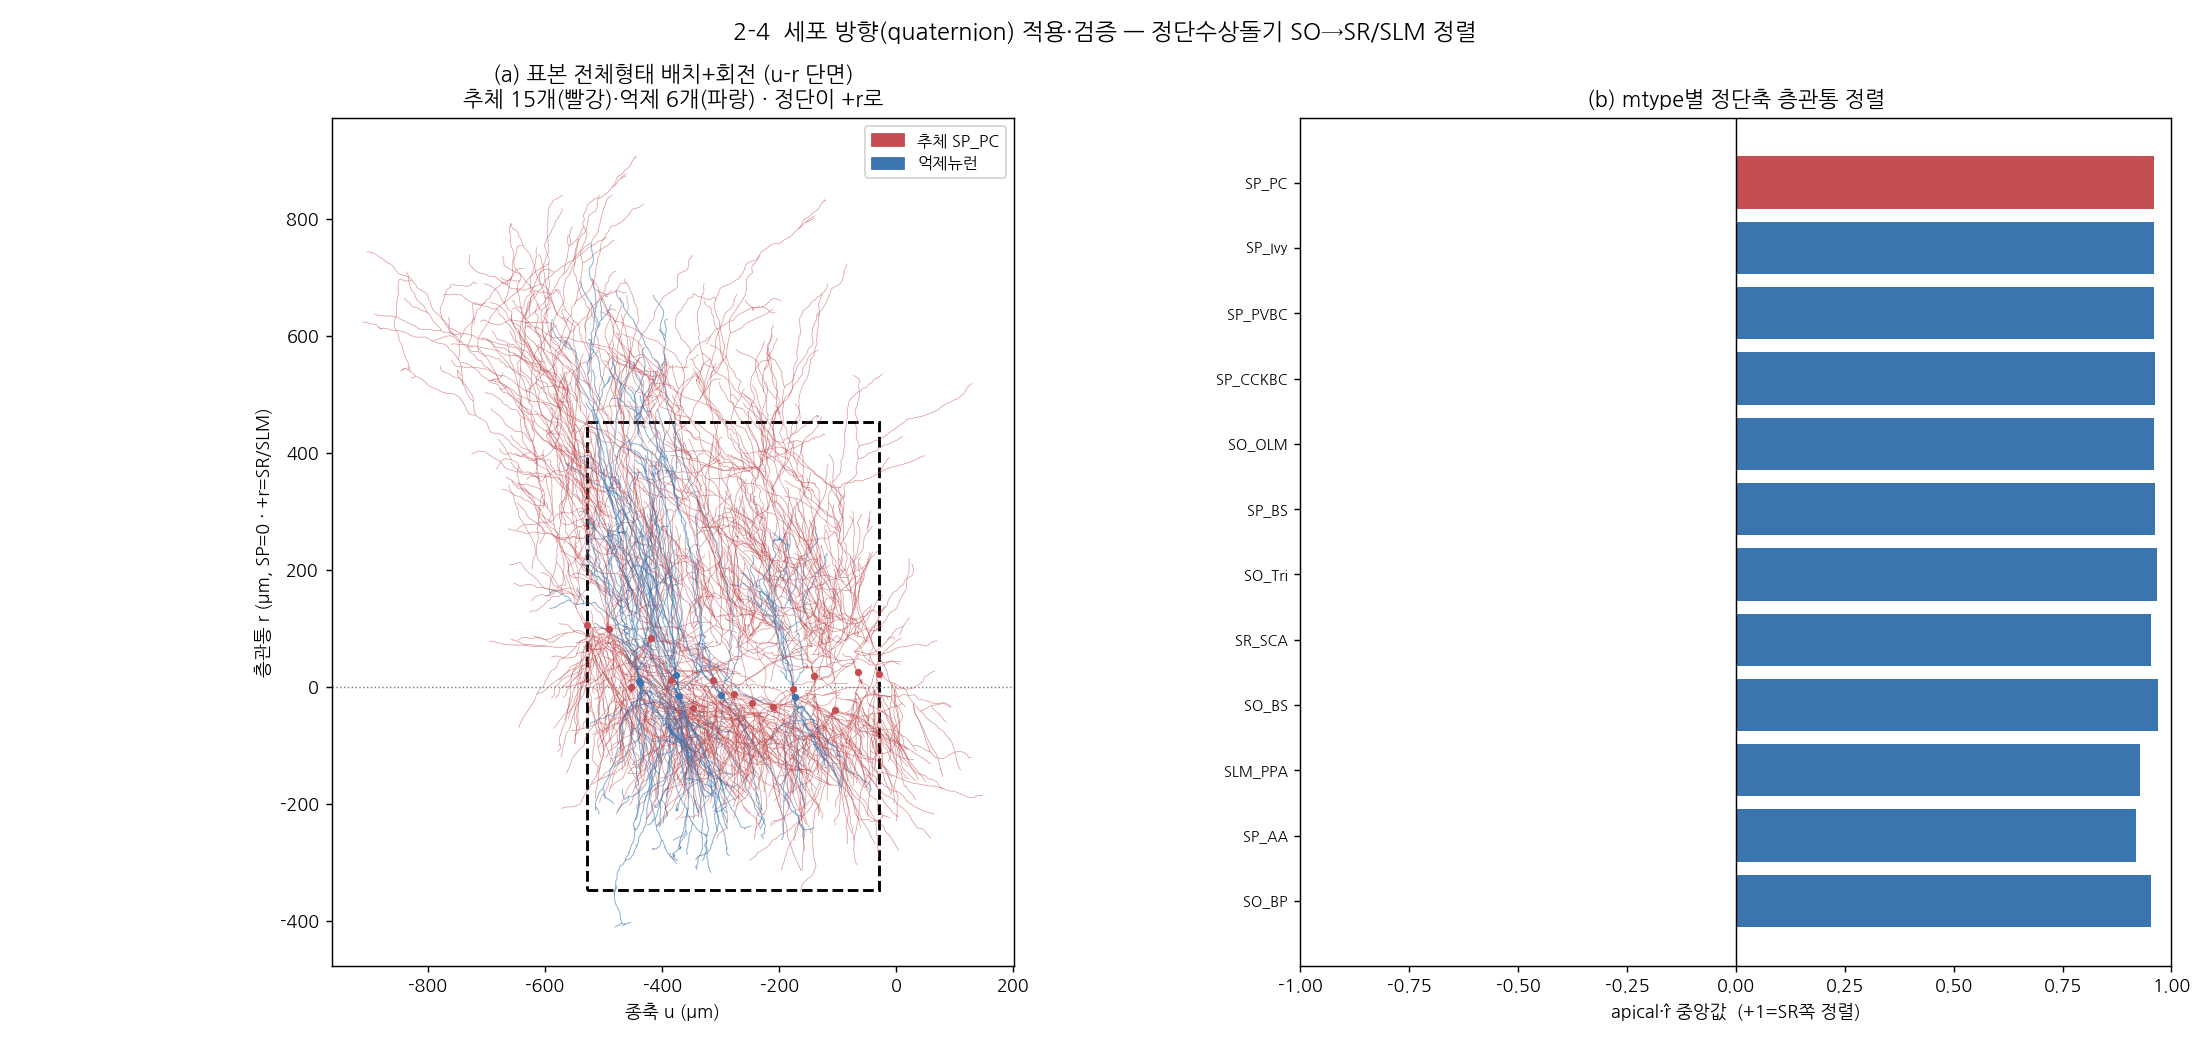
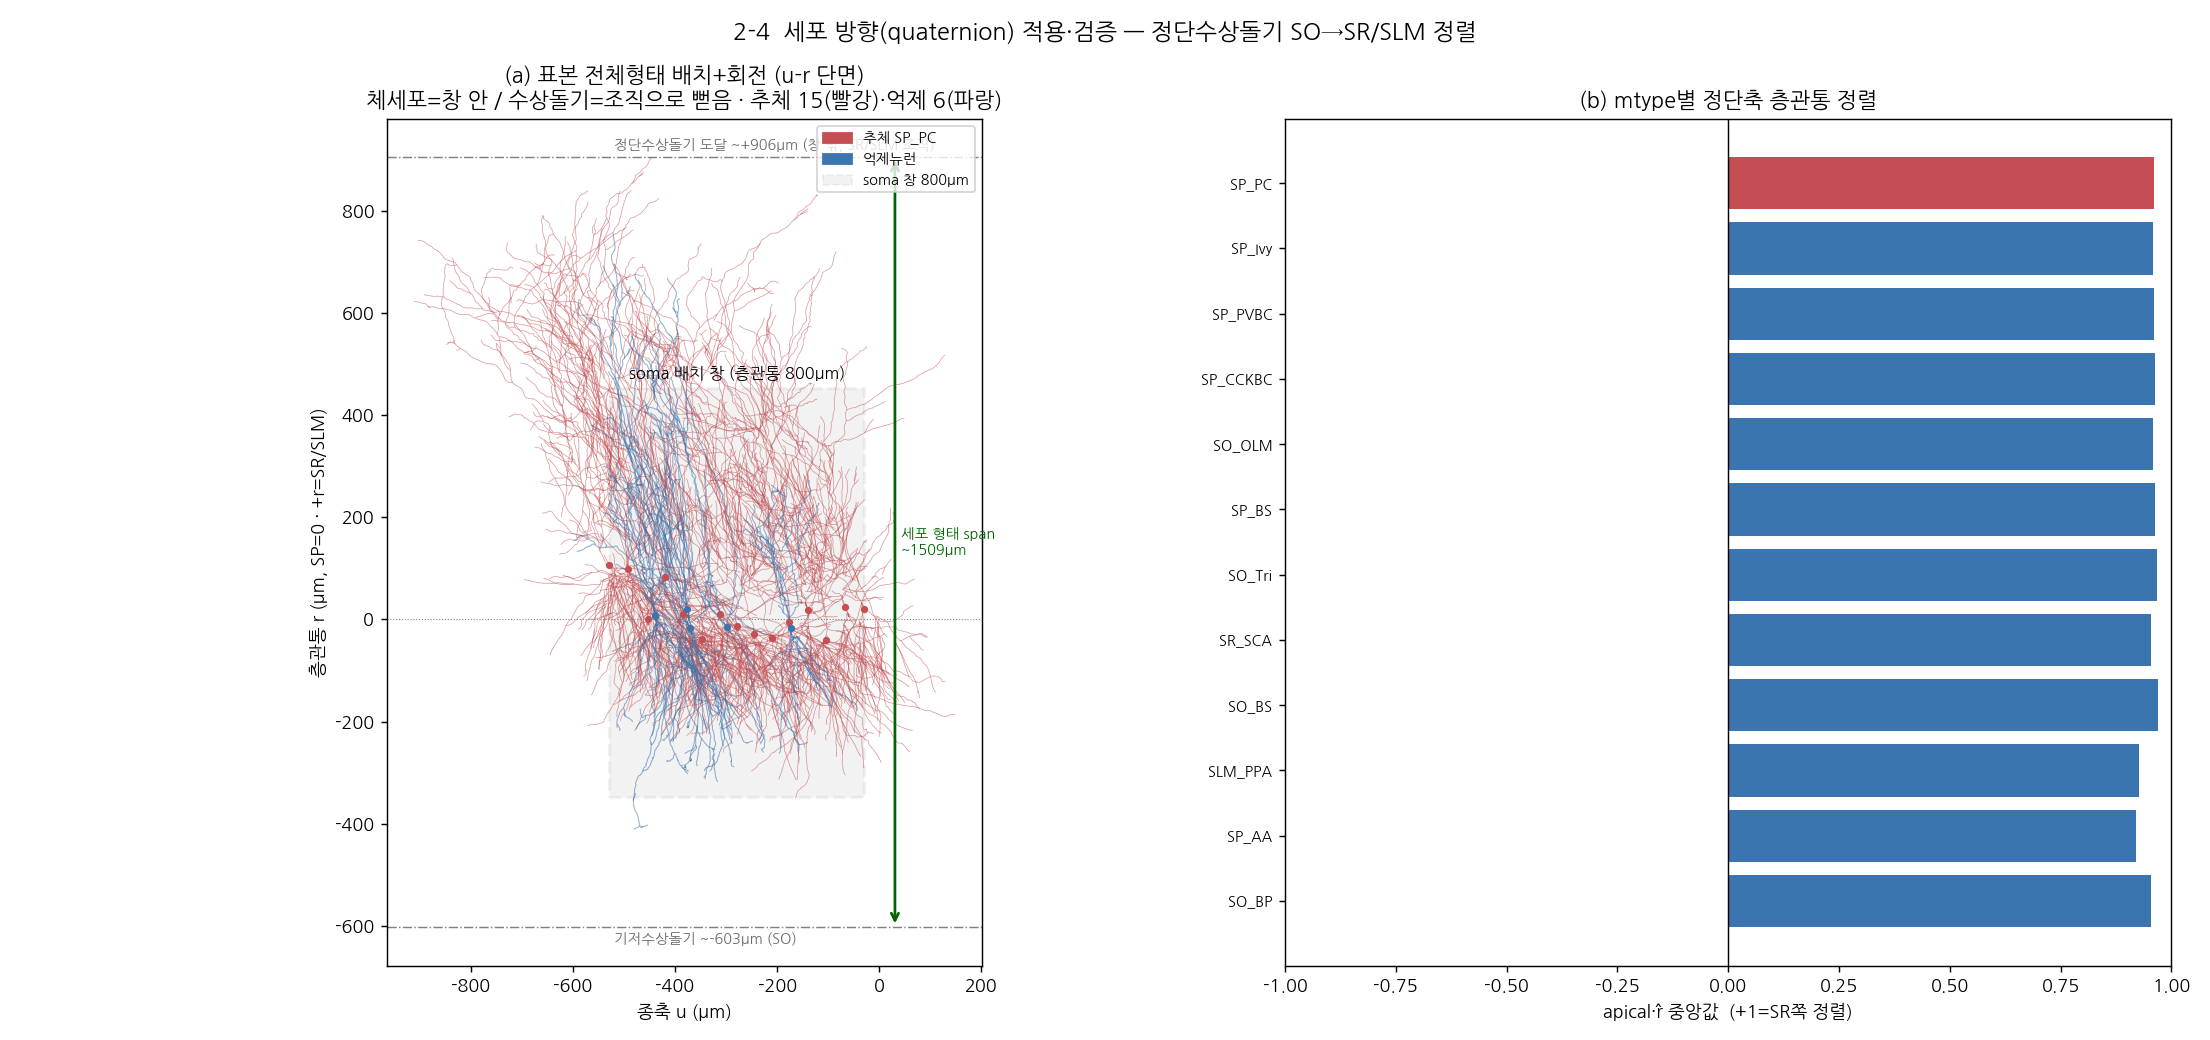
05 2-4: 그림 주석 - soma 창(800um) vs 수상돌기 도달범위 구분 명시

diff --git a/05_Micro_slice_CA1_Simulation/02_neurons/4_orientation/orientation.py b/05_Micro_slice_CA1_Simulation/02_neurons/4_orientation/orientation.py
@@ -101,6 +101,7 @@ def fig_orientation(uvw, xyz, Q, layer, mt, morph, ap_r, c, w, seed, M):
     # (a) 표본 전체형태 배치+회전 (u-r 단면)
     ax = axes[0]
     pick_pc, pick_int = _sample(mt, uvw, layer)
+    rmin, rmax = [0.0], [0.0]   # 그린 형태의 층관통 도달범위 추적
     def draw(ci, color, lw):
         p = os.path.join(MORPHLIB, str(morph[ci]) + ".swc")
         if not os.path.exists(p):
@@ -111,18 +112,39 @@ def fig_orientation(uvw, xyz, Q, layer, mt, morph, ap_r, c, w, seed, M):
             lcset = LineCollection([[(loc[a, 0], loc[a, 1]), (loc[b, 0], loc[b, 1])] for a, b in segs],
                                    colors=color, linewidths=lw, alpha=0.7)
             ax.add_collection(lcset)
+            rmin[0] = min(rmin[0], loc[:, 1].min()); rmax[0] = max(rmax[0], loc[:, 1].max())
         ax.plot(uvw[ci, 0], uvw[ci, 1], "o", color=color, ms=3, zorder=5)
     for ci in pick_pc:
         draw(ci, "#C44E52", 0.35)
     for ci in pick_int:
         draw(ci, "#3B75AF", 0.5)
-    ax.add_patch(Rectangle((c["u"] - w["long"] / 2, c["r"] - w["radial"] / 2),
-                           w["long"], w["radial"], fill=False, ec="black", lw=1.6, ls="--"))
-    ax.axhline(0, color="gray", lw=0.8, ls=":")
+
+    r_lo = c["r"] - w["radial"] / 2; r_hi = c["r"] + w["radial"] / 2
+    box_u0 = c["u"] - w["long"] / 2
+    # soma 배치 창(800) — 굵은 점선 + 음영
+    ax.add_patch(Rectangle((box_u0, r_lo), w["long"], w["radial"],
+                           fill=True, fc="black", alpha=0.05, ec="black", lw=1.8, ls="--", zorder=1))
+    ax.annotate(f"soma 배치 창 (층관통 {w['radial']:.0f}µm)", (c["u"], r_hi), ha="center", va="bottom",
+                fontsize=9, fontweight="bold", xytext=(0, 4), textcoords="offset points")
+    # 수상돌기 도달범위 표시
+    for rr, lab, va in [(rmax[0], f"정단수상돌기 도달 ~+{rmax[0]:.0f}µm (창 밖, SR/SLM 조직)", "bottom"),
+                        (rmin[0], f"기저수상돌기 ~{rmin[0]:.0f}µm (SO)", "top")]:
+        ax.axhline(rr, color="gray", lw=0.8, ls="-.")
+        ax.annotate(lab, (box_u0 + 10, rr), ha="left", va=va, fontsize=8, color="dimgray",
+                    xytext=(0, 3 if va == "bottom" else -3), textcoords="offset points")
+    # 총 span 화살표(오른쪽)
+    x_ar = c["u"] + w["long"] / 2 + 60
+    ax.annotate("", (x_ar, rmax[0]), (x_ar, rmin[0]),
+                arrowprops=dict(arrowstyle="<->", color="darkgreen", lw=1.5))
+    ax.text(x_ar + 12, (rmax[0] + rmin[0]) / 2, f"세포 형태 span\n~{rmax[0]-rmin[0]:.0f}µm",
+            fontsize=8, color="darkgreen", va="center")
+    ax.axhline(0, color="gray", lw=0.6, ls=":")
     ax.set_aspect("equal"); ax.set_xlabel("종축 u (µm)"); ax.set_ylabel("층관통 r (µm, SP=0 · +r=SR/SLM)")
-    ax.set_title(f"(a) 표본 전체형태 배치+회전 (u-r 단면)\n추체 {len(pick_pc)}개(빨강)·억제 {len(pick_int)}개(파랑) · 정단이 +r로")
-    ax.legend(handles=[Patch(color="#C44E52", label="추체 SP_PC"), Patch(color="#3B75AF", label="억제뉴런")],
-              loc="upper right", fontsize=9)
+    ax.set_title(f"(a) 표본 전체형태 배치+회전 (u-r 단면)\n"
+                 f"체세포=창 안 / 수상돌기=조직으로 뻗음 · 추체 {len(pick_pc)}(빨강)·억제 {len(pick_int)}(파랑)")
+    ax.legend(handles=[Patch(color="#C44E52", label="추체 SP_PC"), Patch(color="#3B75AF", label="억제뉴런"),
+                       Patch(facecolor="black", alpha=0.05, ec="black", ls="--", label="soma 창 800µm")],
+              loc="upper right", fontsize=8)
 
     # (b) mtype별 apical·r̂ 정렬
     ax = axes[1]
